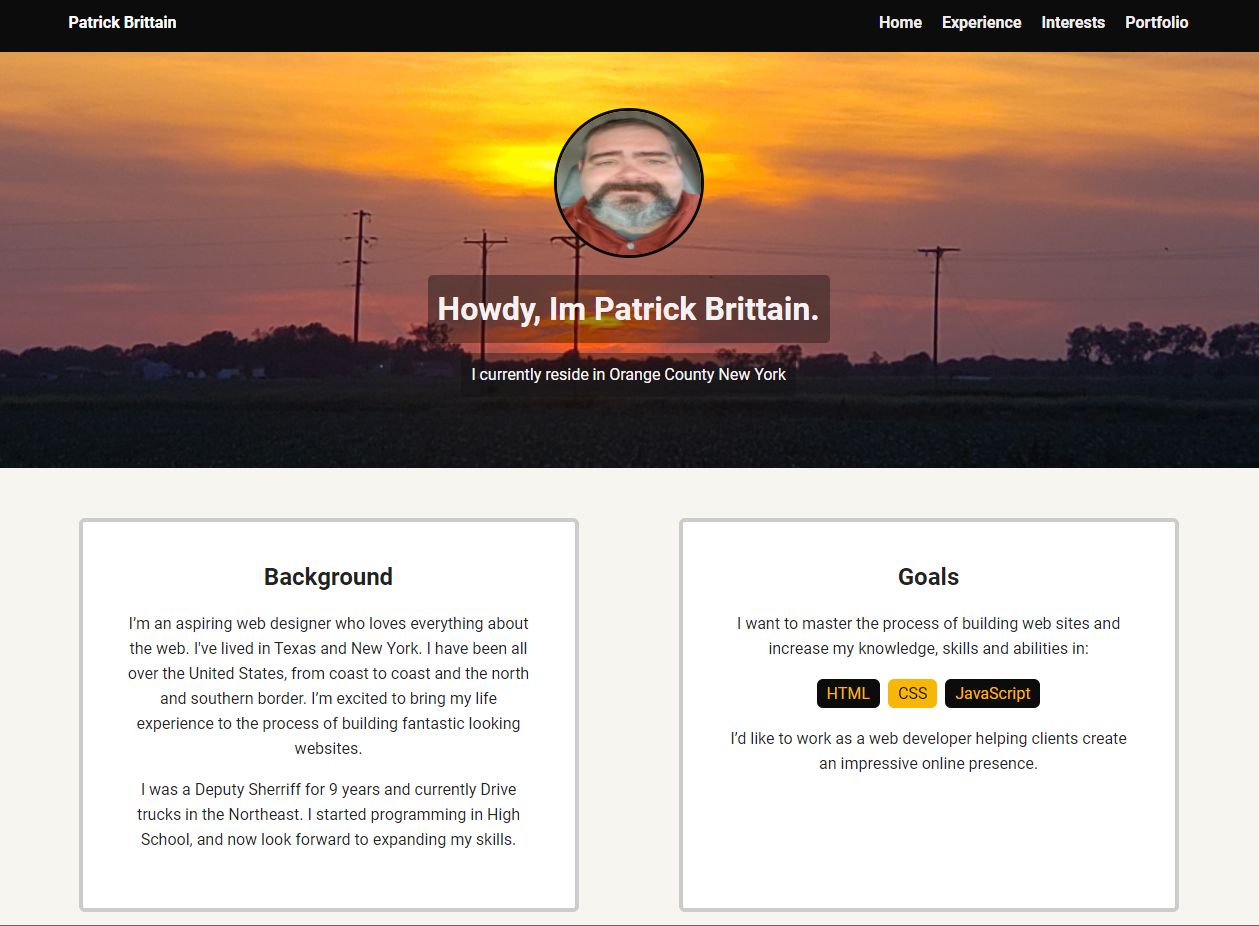
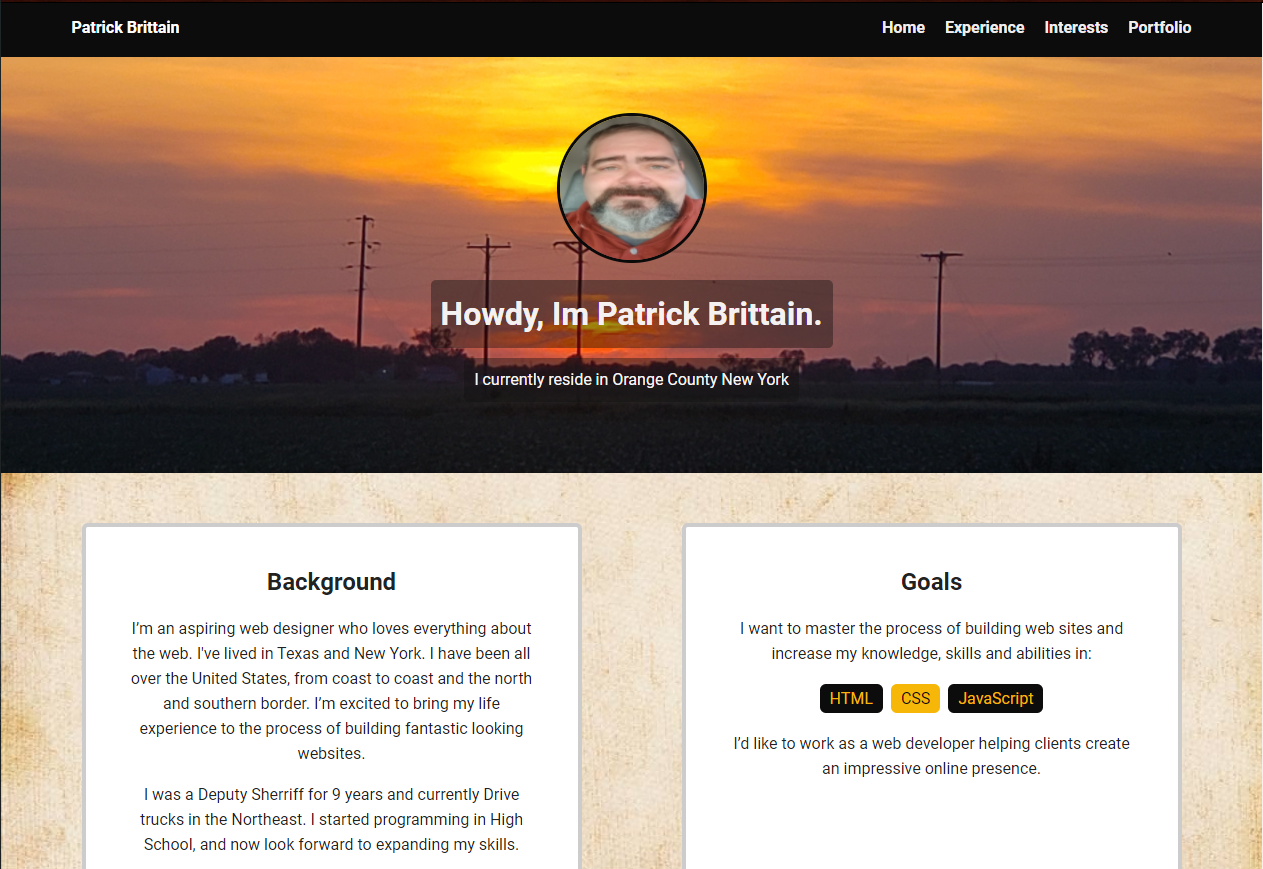
background and pages update

diff --git a/interests.html b/interests.html
@@ -26,28 +26,21 @@
 
     <main class="flex">
       <div class="card">
-          <h1>Automotive</h1>
-          <ul>
-              <li>Lorem ipsum, dolor sit amet consectetur adipisicing elit. Adipisci dolor deserunt et provident dolore. Molestias quas harum minima aspernatur vero voluptas doloribus inventore veniam tenetur, eum, consectetur qui ratione laboriosam.</li>
-              <li>Voluptates temporibus facere accusamus expedita amet iusto id facilis officia dolorum non rerum, soluta asperiores est ipsam molestiae unde, autem eveniet natus accusantium magnam quas quaerat tenetur quidem fugiat! Dolores.</li>
-              <li>Pariatur nesciunt nemo atque facere id, dolorem consequuntur ea at libero. Eaque quod in vero explicabo porro atque temporibus facere ducimus animi iusto quibusdam laudantium cumque aliquid, nisi reiciendis inventore.</li>
+          <h1>Gaming</h1>
+          <ul class="interests">
+              <li><a href="https://worldofwarcraft.com">World of warcraft</a></li>
+              <li><a href="https://us.diablo3.com/en-us/">Diablo 3</a></li>
+              <li><a href="https://www.grimdawn.com/">Grim Dawn</a></li>
           </ul>
       </div>
       <div class="card">
           <h1>Tech</h1>
-          <ul>
-              <li>Lorem ipsum dolor sit amet consectetur adipisicing elit. Ex fuga iste facere, explicabo beatae earum deleniti sunt nostrum unde dolor temporibus soluta, modi itaque nesciunt laudantium, quisquam eligendi ipsum corrupti?</li>
-              <li>Cupiditate enim neque doloribus fugit quisquam sunt, totam natus quis minus molestias ipsam, iste aut consequuntur et mollitia culpa quo deleniti est delectus accusamus repudiandae similique. Assumenda id odit labore!</li>
-              <li>Velit voluptas quis autem ea cupiditate sint aperiam sed quaerat fuga alias maxime soluta animi accusamus expedita fugiat inventore eveniet cumque, rerum, temporibus sit fugit tenetur dolores facilis veniam. Laboriosam!</li>
-          </ul>
+          <p>I have built computers since high school, and still have a passion for it.</p>
       </div>
       <div class="card">
           <h1>Travel</h1>
-          <ul>
-              <li>Lorem ipsum dolor, sit amet consectetur adipisicing elit. Ex possimus iusto facilis placeat repellendus laboriosam rem a dolor! Ad eveniet repellendus ex saepe doloremque inventore minima ipsum est laudantium maiores!</li>
-              <li>Eaque mollitia veritatis minus id quae, harum alias eligendi ad eveniet deleniti nobis pariatur debitis nihil temporibus possimus, architecto, delectus voluptatibus. Sapiente animi inventore optio natus totam aspernatur atque labore.</li>
-              <li>Recusandae velit, modi, voluptatibus aliquam ipsum quasi hic dolores fugiat magnam minima sed consectetur laudantium sapiente vel enim natus excepturi facilis repellat. Vel placeat totam doloribus modi? Aliquid, cum odio.</li>
-          </ul>
+          <p>Having worked as a truck driver, I have been all over the continental United States.</p>
+          <p>I have seen the wonderous beauty that this country holds.</p>          
       </div>
     </main>
     <footer>

diff --git a/styles.css b/styles.css
@@ -9,13 +9,14 @@ body {
   text-align: center;
   font-family: 'Roboto', sans-serif;
   color: #222;
-  background: #f7f5f0;
+  background: url('images/oldBackGroundImg2.jpg');
+  
 }
 /* Link Styles */
 
 a {
   text-decoration: none;
-  color: rgb(241, 237, 237);
+  color: rgb(14, 13, 13);
 }
 a:hover {
   color: rgb(245, 171, 11);
@@ -50,6 +51,7 @@ a:hover {
 }
 .nav a {
   transition: all .5s;
+  color: rgb(245, 241, 241);
 }
 .nav a:hover {
   color: rgb(247, 183, 8)
@@ -73,6 +75,9 @@ header .profile-image {
   border: 3px solid rgb(10, 10, 10);
   transition: all .5s;
 }
+.portfolio-pic{
+  border: 3px solid rgb(10, 10, 10);
+}
 header .profile-image:hover {
   transform: scale(1.2) rotate(5deg);
 }
@@ -85,8 +90,8 @@ header .profile-image:hover {
   margin: 10px auto;
 } 
 .page-title {  
-  background-color: rgba(247, 183, 8, 0.50);
-  color: black;
+  background-color: rgba(12, 12, 12, 0.5);
+  color: white;
   padding: 10px;
   border-radius: 5px;
   display: table;
@@ -118,6 +123,11 @@ ul.skills {
 }
 
 ul.experience {
+  padding: 0;
+  text-align: left;
+}
+
+ul.interests {
   padding: 0;
   text-align: left;
 }

diff --git a/portfolio.html b/portfolio.html
@@ -24,10 +24,10 @@
       <h1 class="page-title">Portfolio</h1>      
     </header>
 
-    <main class="flex">
+    <main class="flex ">
      <div class="card">
-         <h1></h1>
-         <a href=""><img src="" alt=""></a>
+         <h1>My Profile</h1>
+         <a href="index.html"><img src="images/rsz_profilepage.jpg" alt="picture of My profile Project" class="portfolio-pic"></a>
          <p>My First Project, My Profile Page</p>         
      </div>
 

diff --git a/experience.html b/experience.html
@@ -30,6 +30,8 @@
         <ul class="experience">
           <li>Management</li>
           <li>Communication</li>
+          <li>HTML</li>
+          <li>CSS</li>
         </ul>        
       </div>
       
